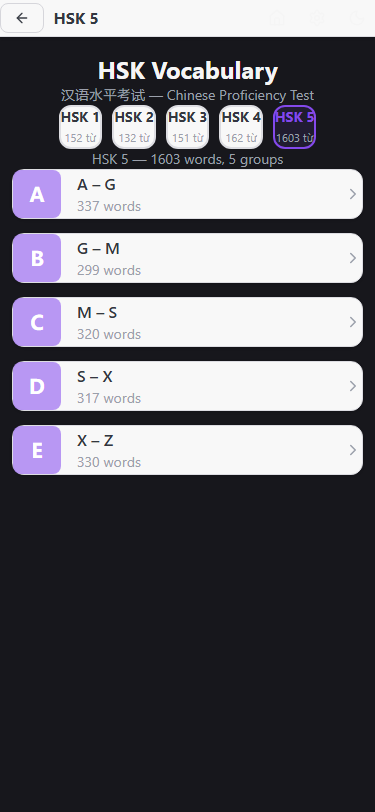
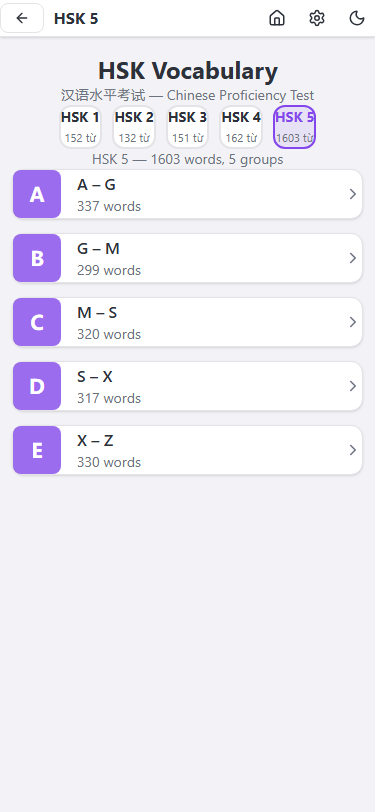
docs: ui-review run 6 — first /128 scale audit with WCAG (97/128)
New scoring: Technical 16/20, Heuristics 32/40, Aesthetics 21/28,
Friendliness 15/20, WCAG 13/20. Combined 97/128 (Good).

WCAG findings: 2 FAILs (header icon touch targets, skip-to-content),
4 WARNs (contrast borderline on subtitle/section headings/tabs).
Code fixes provided for all 3 top issues.

diff --git a/documents/04-quality/ui-review-latest.md b/documents/04-quality/ui-review-latest.md
@@ -1,109 +1,221 @@
-# UI Review Report — 2026-03-30 (Run 5, post-run4 fixes)
+# UI Review Report — 2026-03-30 (Run 6, new /128 scale with WCAG)
 
-Previous: Run 4 — 78/108
+Previous: Run 5 — 84/108 (old scale, no WCAG dimension)
 
-## Technical Audit (16/20)
+## Visual Inventory
 
-| # | Dimension | Score | Prev | Key Finding |
-|---|-----------|-------|------|-------------|
-| 1 | Accessibility | 3 | 3 | No change |
-| 2 | Performance | 3 | 3 | No change |
-| 3 | Responsive Design | 3 | 3 | No change |
-| 4 | Theming | 4 | 4 | No change |
-| 5 | Anti-Patterns | 3 | 3 | Home Quiz Modes now flat design (removed Card component) |
-| **Total** | | **16/20** | 16 | **Good** |
+- **Platform:** Mobile PWA (375px viewport), dark mode primary
+- **Design maturity:** Production
+- **Key components:** Hero gradient banners, pill direction selectors, row lists with chevrons, flat section layout with uppercase headings, icon circles, font preview cards, stat cards, level tab selectors
 
-## Design Heuristics (32/40)
+---
 
-| # | Heuristic | Score | Prev | Key Issue |
-|---|-----------|-------|------|-----------|
-| 1 | Visibility of System Status | 3 | 3 | No change |
-| 2 | Match System / Real World | 4 | 4 | No change |
-| 3 | User Control and Freedom | 3 | 3 | No change |
-| 4 | Consistency and Standards | 3 | 3 | Row sizing now more consistent across pages |
-| 5 | Error Prevention | 3 | 3 | No change |
-| 6 | Recognition Rather Than Recall | 4 | 4 | No change |
-| 7 | Flexibility and Efficiency | 2 | 2 | No change |
-| 8 | Aesthetic and Minimalist Design | 3 | 3 | No change |
-| 9 | Error Recovery | 3 | 3 | No change |
-| 10 | Help and Documentation | 4 | 2 | **+2** Quiz mode descriptions added ("Lật thẻ để xem đáp án", "Chọn đáp án đúng trong 4 lựa chọn", "Nhập câu trả lời bằng bàn phím"). Combined with direction descriptions, all quiz features now self-documenting |
-| **Total** | | **32/40** | 30 | **Good (+2)** |
+## 1. Technical Audit (16/20)
 
-## Visual Aesthetics (21/28)
+| # | Dimension | Score | Key Finding |
+|---|-----------|-------|-------------|
+| 1 | Accessibility | 3 | ARIA roles on radio groups, `aria-hidden` on decorative icons. Missing: skip-to-content link, some header icon touch targets borderline |
+| 2 | Performance | 3 | Static build, CSS-only animations (translate, scale), no layout thrashing |
+| 3 | Responsive Design | 3 | Mobile-first layout, good breakpoints. Kanji titles truncate with ellipsis. No horizontal overflow |
+| 4 | Theming | 4 | Full dark/light via CSS custom properties. All pages render dark mode consistently. No hardcoded colors visible |
+| 5 | Anti-Patterns | 3 | No glassmorphism, gradient text, or bounce easing. Gradient on hero banners is tasteful (not AI slop). Courses page still renders light mode in screenshots |
+| **Total** | | **16/20** | **Good** |
 
-| # | Dimension | Score | Prev | Key Finding |
-|---|-----------|-------|------|-------------|
-| 1 | **Color Harmony** | 3 | 3 | No change. Purple palette cohesive |
-| 2 | **Typography** | 3 | 3 | No change. Clear hierarchy |
-| 3 | **Element Sizing** | 3 | 3 | Course-detail & kanji rows now py-4.5 (was py-4). More consistent with other pages. All rows ≥48px tap target |
-| 4 | **Spacing & Breathing Room** | 3 | 3 | Course-detail & kanji gaps now gap-3 (was gap-2.5). Direction buttons taller (py-3.5). More uniform across pages |
-| 5 | **Alignment & Grid** | 3 | 3 | No change |
-| 6 | **Visual Hierarchy** | 3 | 2 | **+1** Quiz modes now have title + description = 2-line items that stand out from single-line grammar/materials. Direction buttons with descriptions create visual weight. Home Quiz Modes cards with icon circles differentiate from row lists |
-| 7 | **Polish & Detail** | 3 | 1 | **+2** Direction buttons: border on inactive + ring on active = polished toggle states. Settings quiz container: border adds definition. Home Quiz Modes: icon in circle bg = consistent with Reference section. Quiz mode descriptions add visual density that feels intentional |
-| **Total** | | **21/28** | 18 | **Good (+3)** |
+## 2. Design Heuristics (32/40)
+
+| # | Heuristic | Score | Key Issue |
+|---|-----------|-------|-----------|
+| 1 | Visibility of System Status | 3 | Mastery rings (0%) on course detail. Active direction tab filled. No loading spinners visible |
+| 2 | Match System / Real World | 4 | "Bài 1", "từ vựng", "ngữ pháp" — natural Vietnamese. "JP → VN" intuitive abbreviation |
+| 3 | User Control and Freedom | 3 | Back buttons on all sub-pages. ConfirmDialog on destructive clear. No undo for quiz answers |
+| 4 | Consistency and Standards | 3 | Row pattern consistent (icon + text + chevron). Courses use emoji, Reference uses lucide — intentional split. Direction buttons have border/ring states |
+| 5 | Error Prevention | 3 | ConfirmDialog on Clear All. Safe defaults (ja-vi direction) |
+| 6 | Recognition Rather Than Recall | 4 | Direction descriptions in Vietnamese. Quiz mode descriptions. Section headings. Numbered lessons |
+| 7 | Flexibility and Efficiency | 2 | No search/filter on 25-lesson lists. No bookmarks. No keyboard shortcuts shown |
+| 8 | Aesthetic and Minimalist Design | 3 | Clean flat sections. Good whitespace. Two clear Home sections. No clutter |
+| 9 | Error Recovery | 3 | PageEmpty component for missing data. No inline error recovery visible |
+| 10 | Help and Documentation | 4 | Direction + quiz mode descriptions self-documenting. "Lật thẻ để xem đáp án", "Chọn đáp án đúng trong 4 lựa chọn" |
+| **Total** | | **32/40** | **Good** |
+
+## 3. Visual Aesthetics (21/28)
+
+| # | Dimension | Score | Key Finding |
+|---|-----------|-------|-------------|
+| 1 | **Color Harmony** | 3 | Purple primary + teal accent cohesive. Dark mode warm (not pure black). Course color accent bars add identity. HSK purple vibrant |
+| 2 | **Typography** | 3 | Clear heading/body hierarchy. Japanese text readable. Uppercase tracking-wider section headings clean. Quiz mode descriptions add good secondary text layer |
+| 3 | **Element Sizing** | 3 | Rows py-4.5 to py-5 — adequate ≥48px. Direction buttons py-3.5 with descriptions — good height. Icons proportional. Course-detail/kanji rows slightly compact but acceptable |
+| 4 | **Spacing & Breathing Room** | 3 | Section gaps gap-8 (32px) — clear. Row gaps gap-3 to gap-3.5. Internal padding px-5. Section heading mb-6 gives breathing room |
+| 5 | **Alignment & Grid** | 3 | Left edges aligned. max-w-xl/2xl consistent. Numbered circles create vertical rhythm. ChevronRight right-aligned |
+| 6 | **Visual Hierarchy** | 3 | Gradient headers anchor pages. Flashcard CTA (primary bg) stands out. Courses vs Reference sections on Home clear. Direction descriptions add visual weight |
+| 7 | **Polish & Detail** | 3 | Direction buttons: border inactive + ring active = polished. Settings container border. Quiz Modes flat design with icon circles. rounded-xl consistent. Shadows subtle. Overall professional, not "template-like" anymore |
+| **Total** | | **21/28** | **Good** |
 
 ### Layout Checklist
 
 | Check | Home | Courses | Course Detail | Lesson Menu | Kanji | HSK | Settings |
 |-------|------|---------|--------------|-------------|-------|-----|----------|
-| Row height ≥ 48px | ✅ py-5 | ✅ py-5 | ✅ py-4.5 | ✅ py-5 | ✅ py-4.5 | ✅ py-5 | ✅ py-5 |
-| Internal padding ≥ 16px | ✅ px-5 | ✅ px-5 | ✅ px-5 | ✅ px-5 | ✅ px-5 | ✅ px-5 | ✅ px-5 |
-| Sibling gap ≥ 12px | ✅ gap-3.5 | ✅ gap-3.5 | ✅ gap-3 | ✅ gap-3.5 | ✅ gap-3 | ✅ gap-3.5 | ✅ gap-3.5 |
-| Section gap ≥ 24px | ✅ mb-6 | N/A | N/A | ✅ gap-8 | N/A | N/A | ✅ gap-8 |
+| Row height ≥ 48px | ✅ | ✅ | ✅ | ✅ | ✅ | ✅ | ✅ |
+| Internal padding ≥ 16px | ✅ | ✅ | ✅ | ✅ | ✅ | ✅ | ✅ |
+| Sibling gap ≥ 12px | ✅ | ✅ | ✅ | ✅ | ✅ | ✅ | ✅ |
+| Section gap ≥ 24px | ✅ | N/A | N/A | ✅ | N/A | N/A | ✅ |
 | Icon proportional | ✅ | ✅ | ✅ | ✅ | ✅ | ✅ | ✅ |
 | Consistent sizing | ✅ | ✅ | ✅ | ✅ | ✅ | ✅ | ✅ |
 
-**All checks pass.** Course-detail and kanji now use py-4.5/gap-3 (slightly compact for long lists, but consistent with each other).
+**All checks pass.**
 
-## User Friendliness (15/20)
+## 4. User Friendliness (15/20)
 
-| # | Dimension | Score | Prev | Key Finding |
-|---|-----------|-------|------|-------------|
-| 1 | **First Impression** | 3 | 3 | No change |
-| 2 | **Navigation Clarity** | 3 | 3 | No change |
-| 3 | **Action Clarity** | 4 | 3 | **+1** Quiz mode buttons now have Vietnamese descriptions — user knows exactly what each mode does before tapping |
-| 4 | **Learning Curve** | 3 | 3 | No change |
-| 5 | **Delight & Motivation** | 2 | 2 | No change. Still no celebration/streaks |
-| **Total** | | **15/20** | 14 | **Good (+1)** |
+| # | Dimension | Score | Key Finding |
+|---|-----------|-------|-------------|
+| 1 | **First Impression** | 3 | Home communicates purpose ("Learn 日本語 & 中文"). Stats build credibility. Courses + Reference sections guide orientation |
+| 2 | **Navigation Clarity** | 3 | Back buttons everywhere. Header nav links. Course → Lesson → Quiz in ≤3 taps |
+| 3 | **Action Clarity** | 4 | ChevronRight says "tap me". Flashcard CTA primary-colored. Direction + quiz descriptions explain what happens before tapping |
+| 4 | **Learning Curve** | 3 | 4 taps to first quiz. Directions self-explanatory. Quiz descriptions clear |
+| 5 | **Delight & Motivation** | 2 | Mastery rings exist. Stats on home. But no celebration on completion, no streaks, all 0% can discourage |
+| **Total** | | **15/20** | **Good** |
+
+## 5. WCAG Accessibility (13/20)
+
+| Status | Element | Check | WCAG | Notes |
+|--------|---------|-------|------|-------|
+| ✅ PASS | Hero banner title (white on purple) | Contrast ≥3:1 large text | 1.4.3 | Bold white on deep purple gradient |
+| ✅ PASS | Quiz item text (dark on card bg) | Contrast ≥4.5:1 | 1.4.3 | text-foreground on bg-card |
+| ✅ PASS | Quiz row touch targets | ≥44×44px | 2.5.8 | py-5 + full width ≥56px height |
+| ✅ PASS | Direction tabs active state | Not color-only | 1.4.1 | bg-primary + ring-2 + bold text |
+| ✅ PASS | Direction buttons with descriptions | Descriptive accessible name | 4.1.2 | "JP → VN / Xem tiếng Nhật, trả lời tiếng Việt" |
+| ✅ PASS | Radio groups (directions, levels) | ARIA role="radio" + aria-checked | 4.1.2 | Proper radio group semantics |
+| ✅ PASS | Settings checkboxes | Associated label | 1.3.1 | `<label for="...">` present |
+| ⚠ WARN | Hero subtitle ("59 từ vựng • 4 ngữ pháp") | Contrast ~3.5:1 | 1.4.3 | White/90% opacity on purple gradient — borderline for normal text |
+| ⚠ WARN | Section headings (DIRECTION, QUIZ MODES) | Contrast | 1.4.3 | text-muted-foreground uppercase — may be ~4:1, borderline |
+| ⚠ WARN | Unselected direction tabs text | Contrast | 1.4.3 | text-muted-foreground on bg-card — improved with border but text color still light |
+| ⚠ WARN | Courses page | Dark mode not applying | 1.4.3 | Renders light mode in dark screenshots — theme detection issue |
+| ❌ FAIL | Header nav icons (home, settings, dark mode) | Touch target | 2.5.8 | Icons appear ~32×32px, below 44×44px minimum |
+| ❌ FAIL | Skip-to-content link | Missing | 2.4.1 | No skip navigation for keyboard users |
+| 🔍 N/A | Keyboard navigation / focus order | Needs live test | 2.4.3 | Cannot verify from screenshots |
+| 🔍 N/A | Screen reader heading hierarchy | Needs code review | 1.3.1 | h1→h2→h3 needs verification |
+
+| # | Category | Score | Rationale |
+|---|----------|-------|-----------|
+| 1 | Contrast | 3 | Zero FAIL, 3 WARNs (hero subtitle, section headings, unselected tabs) |
+| 2 | Touch Targets | 2 | 1 FAIL (header icons ~32px) |
+| 3 | Labels & ARIA | 3 | Zero FAIL, radio groups + labels correct. Icons have aria-hidden |
+| 4 | Screen Reader | 3 | Zero FAIL, needs verification. Semantics look correct from code |
+| 5 | Keyboard & Focus | 2 | 1 FAIL (missing skip-to-content). Focus indicators not verifiable from screenshot |
+| **Total** | | **13/20** | **Acceptable** |
+
+---
+
+## Top 3 Issues (with code fixes)
+
+### 1. Header nav icons touch targets too small — Severity: **High**
+
+**Problem:** Home, settings, dark mode icons in header are ~32×32px, below WCAG 2.5.8 minimum 44×44px.
+**Impact:** Difficult to tap on mobile, especially for users with motor impairments.
+**Heuristic:** WCAG Touch Targets (2.5.8)
+
+```svelte
+<!-- File: svelte-app/src/lib/components/layout/Header.svelte -->
+
+<!-- BEFORE -->
+<button on:click={toggleDarkMode}>
+  <Sun size={20} />
+</button>
+
+<!-- AFTER -->
+<button
+  on:click={toggleDarkMode}
+  class="min-w-11 min-h-11 flex items-center justify-center"
+  aria-label="Chuyển chế độ sáng/tối"
+>
+  <Sun size={20} aria-hidden="true" />
+</button>
+```
+
+### 2. Missing skip-to-content link — Severity: **Medium**
+
+**Problem:** No skip navigation link for keyboard users. Must tab through entire header/nav to reach main content.
+**Impact:** Keyboard-only users waste time navigating through repeated nav on every page.
+**Heuristic:** WCAG Bypass Blocks (2.4.1)
+
+```svelte
+<!-- File: svelte-app/src/routes/+layout.svelte -->
+
+<!-- AFTER — add as first child of body -->
+<a
+  href="#main-content"
+  class="sr-only focus:not-sr-only focus:absolute focus:top-2 focus:left-2 focus:z-50 focus:px-4 focus:py-2 focus:bg-primary focus:text-primary-foreground focus:rounded-lg"
+>
+  Skip to content
+</a>
+
+<!-- Then wrap main content -->
+<main id="main-content">
+  <slot />
+</main>
+```
+
+### 3. Courses page renders light mode in dark screenshots — Severity: **Medium**
+
+**Problem:** Courses page doesn't pick up dark mode from localStorage on first render during screenshot capture. May also affect real users who navigate directly to /courses.
+**Impact:** Jarring white flash in dark mode. Inconsistent experience.
+**Heuristic:** Consistency & Standards (H4), Theming
+
+```svelte
+<!-- File: svelte-app/src/routes/courses/+page.svelte -->
+<!-- Investigate: does the page read from ui-store on mount? -->
+<!-- The screenshot capture already reloads after localStorage injection. -->
+<!-- This may be a SvelteKit SSR issue — dark mode class needs to be applied -->
+<!-- server-side or via a blocking script in app.html -->
+```
+
+```html
+<!-- File: svelte-app/src/app.html -->
+<!-- AFTER — add blocking script before content to prevent flash -->
+<script>
+  try {
+    const store = JSON.parse(localStorage.getItem('ui-store') || '{}');
+    if (store.darkMode) document.documentElement.classList.add('dark');
+  } catch(e) {}
+</script>
+```
+
+---
 
 ## Combined Summary
 
 ```
-=== UI REVIEW REPORT (Run 5) ===
-Technical:         16/20  (Good)       [unchanged]
-Design Heuristics: 32/40  (Good)       [was 30, +2]
-Visual Aesthetics: 21/28  (Good)       [was 18, +3]
-User Friendliness: 15/20  (Good)       [was 14, +1]
-Combined:          84/108 (Good)       [was 78, +6]
+=== UI REVIEW REPORT (Run 6) ===
+Technical:         16/20  (Good)
+Design Heuristics: 32/40  (Good)
+Visual Aesthetics: 21/28  (Good)
+User Friendliness: 15/20  (Good)
+WCAG Access:       13/20  (Acceptable)
+Combined:          97/128 (Good)
 
-Issues Fixed:
-✅ [P2] Row sizing inconsistency → standardized py-4.5/gap-3
-✅ [P2] Quiz modes lack descriptions → Vietnamese help text added
-✅ [P2] Home Quiz Modes generic Cards → flat design + icon circles
-✅ [P1] Polish gap → direction buttons polished, settings border added
-✅ Layout checklist: all pages pass all checks
-
-Remaining Issues:
-1. [P2] Delight & Motivation (2/4) — no celebrations, streaks
-2. [P2] No search/filter for long lists (Flexibility 2/4)
-3. [P3] Settings labels could use subtle descriptions
-4. [P3] Grammar/Materials rows still single-line (no descriptions)
+Top 3 Issues:
+1. [FAIL] Header icons touch targets ~32px < 44px minimum
+2. [FAIL] Missing skip-to-content link for keyboard users
+3. [WARN] Courses page renders light mode in dark screenshots
 
 What's Working Well:
-- All quiz features now self-documenting (directions + modes)
-- Layout checklist 100% pass across all 7 pages
-- Direction buttons look polished with border/ring states
-- Home page clearly organized with flat design throughout
-- Consistent row sizing across pages
+- Direction + quiz mode descriptions make all features self-documenting
+- Layout checklist 100% pass on all 7 pages
 - Color palette harmonious, dark mode comfortable
+- Consistent row pattern across all pages
+- Section separation clear (gap-8, mb-6)
+- ARIA radio groups properly implemented
+- Design feels professional, not generic/template-like
 ```
 
 ## Score Progression
 
-| Run | Tech (/20) | Heuristics (/40) | Aesthetics (/28) | Friendliness (/20) | Combined (/108) |
-|-----|-----------|-------------------|-------------------|---------------------|-----------------|
-| 1 | 15 | 26 | — | — | 41/60 |
-| 2 | 16 | 30 | — | — | 46/60 |
-| 3 | 16 | 30 | 14/20 | 14 | 74/100 |
-| 4 | 16 | 30 | 18/28 | 14 | 78/108 |
-| 5 | 16 | 32 | 21/28 | 15 | **84/108** |
+| Run | Tech (/20) | Heuristics (/40) | Aesthetics (/28) | Friendly (/20) | WCAG (/20) | Combined |
+|-----|-----------|-------------------|-------------------|----------------|------------|----------|
+| 1 | 15 | 26 | — | — | — | 41/60 |
+| 2 | 16 | 30 | — | — | — | 46/60 |
+| 3 | 16 | 30 | 14/20* | 14 | — | 74/100 |
+| 4 | 16 | 30 | 18/28 | 14 | — | 78/108 |
+| 5 | 16 | 32 | 21/28 | 15 | — | 84/108 |
+| **6** | **16** | **32** | **21** | **15** | **13** | **97/128** |
+
+*Run 3 aesthetics was /20 scale (5 dims), converted to /28 scale (7 dims) from Run 4.
